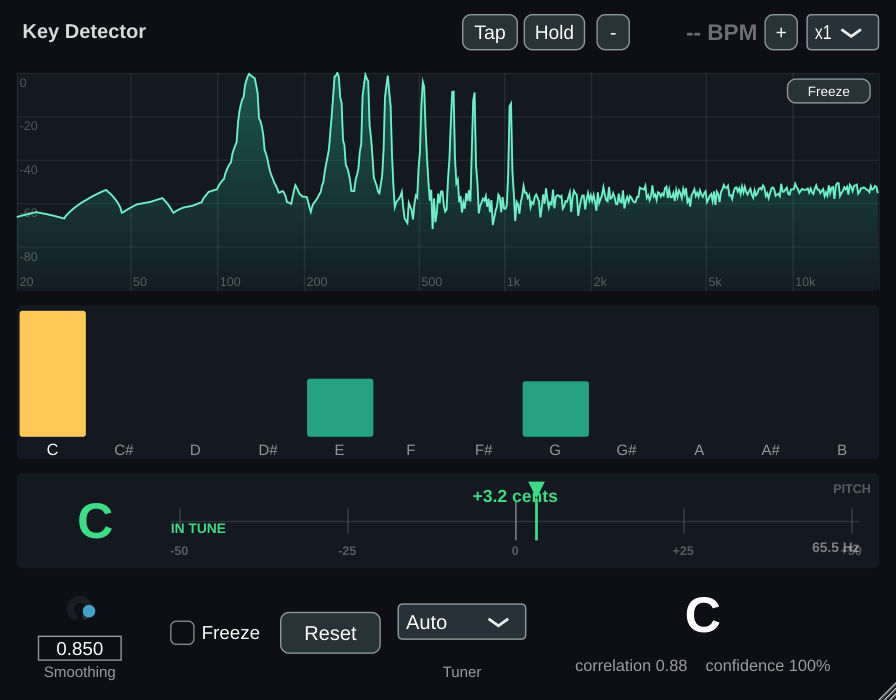
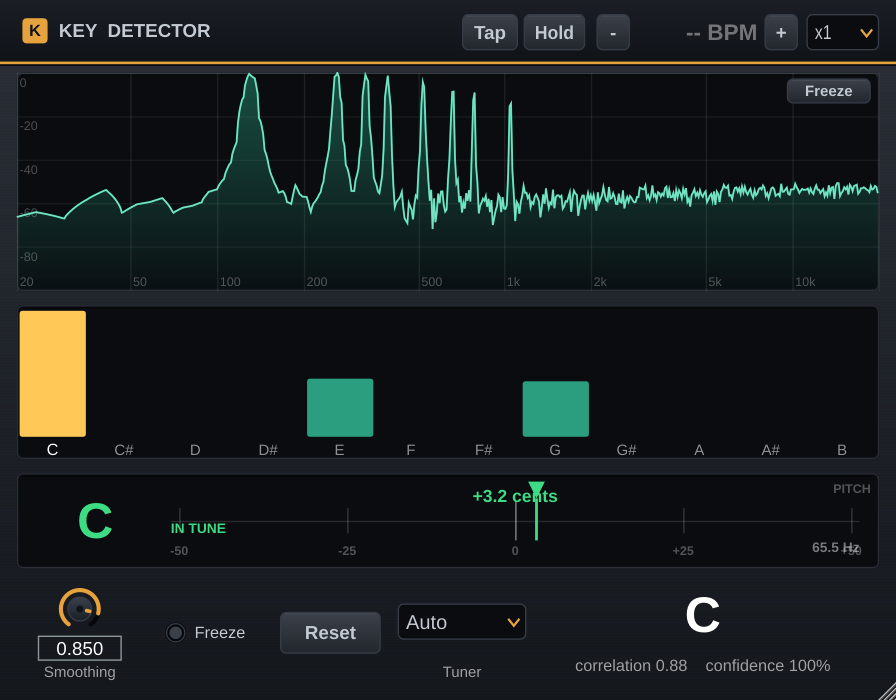
gui: dark 'mixing console' theme
- ConsoleLookAndFeel: console-style rotary knobs (amber arc + pointer), beveled
  buttons, LED toggle, dark combo boxes, shared charcoal/amber/green palette.
- Editor: brushed-metal background gradient, title bar with logo + wordmark and an
  amber accent divider; applies the LookAndFeel (scaled with the resizable UI).
- Meters (spectrum/chroma/tuner) now draw as recessed 'screen' panels with bevels;
  green meter trace/bars, amber accents.

diff --git a/Source/ConsoleLookAndFeel.h b/Source/ConsoleLookAndFeel.h
@@ -1,0 +1,159 @@
+#pragma once
+
+#include <juce_gui_basics/juce_gui_basics.h>
+
+//==============================================================================
+// Shared dark "mixing console" palette.
+namespace console
+{
+    constexpr juce::uint32 bgTop     = 0xff2b3038; // panel gradient (top)
+    constexpr juce::uint32 bgBottomC = 0xff14171c; // panel gradient (bottom)
+    constexpr juce::uint32 barTop    = 0xff1b1f25; // title bar
+    constexpr juce::uint32 barBottom = 0xff101318;
+    constexpr juce::uint32 panel     = 0xff1b1f26; // section panel
+    constexpr juce::uint32 screen    = 0xff0a0c10; // recessed display background
+    constexpr juce::uint32 edge      = 0xff363c46; // borders / bevel highlight
+    constexpr juce::uint32 shadow    = 0xff05070a;
+    constexpr juce::uint32 button     = 0xff2a3038;
+    constexpr juce::uint32 knobTop    = 0xff3a414b;
+    constexpr juce::uint32 knobBottom = 0xff1b1f26;
+    constexpr juce::uint32 text       = 0xffc4cad2;
+    constexpr juce::uint32 textDim    = 0xff727b86;
+    constexpr juce::uint32 accent     = 0xffe6a23c; // amber controls
+    constexpr juce::uint32 meter      = 0xff35d0a5; // green meter/trace
+}
+
+//==============================================================================
+class ConsoleLookAndFeel : public juce::LookAndFeel_V4
+{
+public:
+    ConsoleLookAndFeel()
+    {
+        setColour (juce::ResizableWindow::backgroundColourId, juce::Colour (console::bgBottomC));
+        setColour (juce::Label::textColourId,                 juce::Colour (console::text));
+        setColour (juce::Slider::textBoxTextColourId,         juce::Colour (console::text));
+        setColour (juce::Slider::textBoxOutlineColourId,      juce::Colours::transparentBlack);
+        setColour (juce::Slider::textBoxBackgroundColourId,   juce::Colour (console::screen));
+        setColour (juce::ComboBox::textColourId,              juce::Colour (console::text));
+        setColour (juce::ComboBox::backgroundColourId,        juce::Colour (console::screen));
+        setColour (juce::ComboBox::outlineColourId,           juce::Colour (console::edge));
+        setColour (juce::ComboBox::arrowColourId,             juce::Colour (console::accent));
+        setColour (juce::TextButton::textColourOnId,          juce::Colours::black);
+        setColour (juce::TextButton::textColourOffId,         juce::Colour (console::text));
+        setColour (juce::PopupMenu::backgroundColourId,       juce::Colour (console::panel));
+        setColour (juce::PopupMenu::textColourId,             juce::Colour (console::text));
+        setColour (juce::PopupMenu::highlightedBackgroundColourId, juce::Colour (console::accent).withAlpha (0.35f));
+        setColour (juce::PopupMenu::highlightedTextColourId,  juce::Colours::white);
+    }
+
+    //==============================================================================
+    void drawRotarySlider (juce::Graphics& g, int x, int y, int width, int height,
+                           float pos, float startAngle, float endAngle, juce::Slider&) override
+    {
+        auto bounds = juce::Rectangle<int> (x, y, width, height).toFloat().reduced (3.0f);
+        const float radius = juce::jmin (bounds.getWidth(), bounds.getHeight()) / 2.0f;
+        const auto  centre = bounds.getCentre();
+        const float angle  = startAngle + pos * (endAngle - startAngle);
+        const float trackW = 3.0f;
+        const float arcR   = radius - trackW * 0.5f - 1.0f;
+
+        juce::Path track;
+        track.addCentredArc (centre.x, centre.y, arcR, arcR, 0.0f, startAngle, endAngle, true);
+        g.setColour (juce::Colour (console::shadow));
+        g.strokePath (track, juce::PathStrokeType (trackW, juce::PathStrokeType::curved, juce::PathStrokeType::rounded));
+
+        juce::Path val;
+        val.addCentredArc (centre.x, centre.y, arcR, arcR, 0.0f, startAngle, angle, true);
+        g.setColour (juce::Colour (console::accent));
+        g.strokePath (val, juce::PathStrokeType (trackW, juce::PathStrokeType::curved, juce::PathStrokeType::rounded));
+
+        const float kr = arcR - trackW - 2.0f;
+        g.setGradientFill (juce::ColourGradient (juce::Colour (console::knobTop),    centre.x, centre.y - kr,
+                                                 juce::Colour (console::knobBottom), centre.x, centre.y + kr, false));
+        g.fillEllipse (centre.x - kr, centre.y - kr, kr * 2.0f, kr * 2.0f);
+        g.setColour (juce::Colour (console::edge));
+        g.drawEllipse (centre.x - kr, centre.y - kr, kr * 2.0f, kr * 2.0f, 1.0f);
+
+        juce::Path pointer;
+        const float pw = 2.6f;
+        pointer.addRoundedRectangle (-pw * 0.5f, -kr, pw, kr * 0.55f, 1.0f);
+        pointer.applyTransform (juce::AffineTransform::rotation (angle).translated (centre.x, centre.y));
+        g.setColour (juce::Colour (console::accent));
+        g.fillPath (pointer);
+
+        g.setColour (juce::Colour (0xff10131a));
+        g.fillEllipse (centre.x - 2.5f, centre.y - 2.5f, 5.0f, 5.0f);
+    }
+
+    //==============================================================================
+    void drawButtonBackground (juce::Graphics& g, juce::Button& b, const juce::Colour&,
+                               bool over, bool down) override
+    {
+        auto r = b.getLocalBounds().toFloat().reduced (0.5f);
+        const bool on = b.getToggleState();
+        juce::Colour base = on ? juce::Colour (console::accent) : juce::Colour (console::button);
+        juce::Colour top = base.brighter (down ? 0.0f : (over ? 0.18f : 0.10f));
+        juce::Colour bot = base.darker (down ? 0.05f : 0.22f);
+
+        g.setGradientFill (juce::ColourGradient (top, 0, r.getY(), bot, 0, r.getBottom(), false));
+        g.fillRoundedRectangle (r, 4.0f);
+
+        g.setColour (juce::Colours::white.withAlpha (0.06f));
+        g.drawLine (r.getX() + 3.0f, r.getY() + 1.0f, r.getRight() - 3.0f, r.getY() + 1.0f, 1.0f);
+
+        g.setColour (on ? juce::Colour (console::accent).darker (0.5f) : juce::Colour (console::edge));
+        g.drawRoundedRectangle (r, 4.0f, 1.0f);
+    }
+
+    juce::Font getTextButtonFont (juce::TextButton&, int h) override
+    {
+        return juce::Font (juce::FontOptions ((float) juce::jmin (15, h - 6), juce::Font::bold));
+    }
+
+    //==============================================================================
+    void drawToggleButton (juce::Graphics& g, juce::ToggleButton& b, bool, bool) override
+    {
+        auto bounds = b.getLocalBounds();
+        const float d = 13.0f;
+        auto led = juce::Rectangle<float> (bounds.getX() + 1.0f, bounds.getCentreY() - d * 0.5f, d, d);
+        const bool on = b.getToggleState();
+
+        if (on)
+        {
+            g.setColour (juce::Colour (console::accent).withAlpha (0.30f));
+            g.fillEllipse (led.expanded (3.0f));
+        }
+        g.setColour (juce::Colour (console::shadow));
+        g.fillEllipse (led.expanded (1.0f));
+        g.setColour (on ? juce::Colour (console::accent) : juce::Colour (0xff3a4048));
+        g.fillEllipse (led.reduced (2.0f));
+        g.setColour (juce::Colour (console::edge));
+        g.drawEllipse (led, 1.0f);
+
+        g.setColour (juce::Colour (console::text));
+        g.setFont (juce::Font (juce::FontOptions (13.0f)));
+        g.drawText (b.getButtonText(), bounds.getX() + (int) d + 8, bounds.getY(),
+                    bounds.getWidth() - (int) d - 8, bounds.getHeight(),
+                    juce::Justification::centredLeft, false);
+    }
+
+    //==============================================================================
+    void drawComboBox (juce::Graphics& g, int width, int height, bool,
+                       int, int, int, int, juce::ComboBox&) override
+    {
+        auto r = juce::Rectangle<int> (0, 0, width, height).toFloat().reduced (0.5f);
+        g.setColour (juce::Colour (console::screen));
+        g.fillRoundedRectangle (r, 4.0f);
+        g.setColour (juce::Colour (console::edge));
+        g.drawRoundedRectangle (r, 4.0f, 1.0f);
+
+        auto arrow = juce::Rectangle<float> ((float) width - 16.0f, 0.0f, 14.0f, (float) height);
+        const auto c = arrow.getCentre();
+        juce::Path p;
+        p.startNewSubPath (c.x - 4.0f, c.y - 2.0f);
+        p.lineTo (c.x, c.y + 3.0f);
+        p.lineTo (c.x + 4.0f, c.y - 2.0f);
+        g.setColour (juce::Colour (console::accent));
+        g.strokePath (p, juce::PathStrokeType (1.6f));
+    }
+};

diff --git a/Source/SpectrumAnalyzer.cpp b/Source/SpectrumAnalyzer.cpp
@@ -1,7 +1,24 @@
 #include "SpectrumAnalyzer.h"
 #include "PitchDetector.h"
+#include "ConsoleLookAndFeel.h"
 
 #include <cmath>
+
+namespace
+{
+    // A recessed "screen" panel (dark inset with a bevel) used behind each meter.
+    void drawScreen (juce::Graphics& g, juce::Rectangle<float> b)
+    {
+        g.setColour (juce::Colour (console::screen));
+        g.fillRoundedRectangle (b, 4.0f);
+        g.setColour (juce::Colours::black.withAlpha (0.40f)); // inner top shadow
+        g.drawLine (b.getX() + 3.0f, b.getY() + 1.5f, b.getRight() - 3.0f, b.getY() + 1.5f, 1.5f);
+        g.setColour (juce::Colours::white.withAlpha (0.04f)); // bottom bevel highlight
+        g.drawLine (b.getX() + 3.0f, b.getBottom() - 1.0f, b.getRight() - 3.0f, b.getBottom() - 1.0f, 1.0f);
+        g.setColour (juce::Colour (console::edge).withAlpha (0.7f));
+        g.drawRoundedRectangle (b.reduced (0.5f), 4.0f, 1.0f);
+    }
+}
 
 //==============================================================================
 void SpectrumDisplay::setSpectrum (const std::vector<float>& magnitudes, double newSampleRate)
@@ -112,8 +129,7 @@ void SpectrumDisplay::paint (juce::Graphics& g)
     const float w = bounds.getWidth();
     const float h = bounds.getHeight();
 
-    g.setColour (juce::Colour (0xff141821));
-    g.fillRoundedRectangle (bounds, 4.0f);
+    drawScreen (g, bounds);
 
     // ---- dB grid (horizontal) ---------------------------------------------------
     g.setFont (10.0f);
@@ -159,11 +175,11 @@ void SpectrumDisplay::paint (juce::Graphics& g)
     filled.lineTo (0.0f, h);
     filled.closeSubPath();
 
-    g.setGradientFill (juce::ColourGradient (juce::Colour (0xff2bd1a4).withAlpha (0.35f), 0, 0,
-                                             juce::Colour (0xff2bd1a4).withAlpha (0.02f), 0, h, false));
+    g.setGradientFill (juce::ColourGradient (juce::Colour (console::meter).withAlpha (0.35f), 0, 0,
+                                             juce::Colour (console::meter).withAlpha (0.02f), 0, h, false));
     g.fillPath (filled);
 
-    g.setColour (juce::Colour (0xff36e0b0));
+    g.setColour (juce::Colour (console::meter));
     g.strokePath (path, juce::PathStrokeType (1.4f));
 
     // ---- peak-hold trace --------------------------------------------------------
@@ -265,7 +281,7 @@ void SpectrumDisplay::paintHoverReadout (juce::Graphics& g)
 
     g.setColour (juce::Colour (0xff0d0f14).withAlpha (0.92f));
     g.fillRoundedRectangle ((float) lx, (float) ly, (float) tw, (float) th, 4.0f);
-    g.setColour (juce::Colour (0xff2bd1a4).withAlpha (0.6f));
+    g.setColour (juce::Colour (console::meter).withAlpha (0.6f));
     g.drawRoundedRectangle ((float) lx, (float) ly, (float) tw, (float) th, 4.0f, 1.0f);
     g.setColour (juce::Colours::white);
     g.drawText (txt, lx + 7, ly, tw - 12, th, juce::Justification::centredLeft, false);
@@ -279,8 +295,7 @@ void ChromaDisplay::paint (juce::Graphics& g)
 
     auto bounds = getLocalBounds().toFloat();
 
-    g.setColour (juce::Colour (0xff141821));
-    g.fillRoundedRectangle (bounds, 4.0f);
+    drawScreen (g, bounds);
 
     const float labelH = 16.0f;
     const float w      = bounds.getWidth();
@@ -302,7 +317,7 @@ void ChromaDisplay::paint (juce::Graphics& g)
         const bool isTonic = (i == tonicPc);
         g.setColour (isTonic ? (isMinor ? juce::Colour (0xff6ea8ff)
                                         : juce::Colour (0xffffc857))
-                             : juce::Colour (0xff2bd1a4).withAlpha (0.75f));
+                             : juce::Colour (console::meter).withAlpha (0.75f));
         g.fillRoundedRectangle (bar, 2.0f);
 
         g.setColour (isTonic ? juce::Colours::white : juce::Colours::white.withAlpha (0.55f));
@@ -317,8 +332,7 @@ void TunerDisplay::paint (juce::Graphics& g)
 {
     auto bounds = getLocalBounds().toFloat();
 
-    g.setColour (juce::Colour (0xff141821));
-    g.fillRoundedRectangle (bounds, 4.0f);
+    drawScreen (g, bounds);
 
     auto area = bounds.reduced (8.0f);
 

diff --git a/Source/PluginEditor.cpp b/Source/PluginEditor.cpp
@@ -4,16 +4,42 @@
 KeyDetectorAudioProcessorEditor::KeyDetectorAudioProcessorEditor (KeyDetectorAudioProcessor& p)
     : AudioProcessorEditor (&p), processorRef (p)
 {
+    setLookAndFeel (&consoleLnf);
+
     // Everything lives inside `content`, which is laid out at the fixed design size
     // and scaled to fill the (resizable) editor.
     addAndMakeVisible (content);
     content.onPaint = [] (juce::Graphics& g)
     {
-        g.fillAll (juce::Colour (0xff0d0f14));
+        const int W = designWidth, H = designHeight;
 
-        g.setColour (juce::Colours::white.withAlpha (0.85f));
-        g.setFont (juce::Font (juce::FontOptions (16.0f, juce::Font::bold)));
-        g.drawText ("Key Detector", 16, 10, 300, 24, juce::Justification::left, false);
+        // Brushed-metal panel gradient.
+        g.setGradientFill (juce::ColourGradient (juce::Colour (console::bgTop), 0.0f, 0.0f,
+                                                 juce::Colour (console::bgBottomC), 0.0f, (float) H, false));
+        g.fillRect (0, 0, W, H);
+        g.setColour (juce::Colours::white.withAlpha (0.012f));
+        for (int y = 48; y < H; y += 2)
+            g.drawHorizontalLine (y, 0.0f, (float) W);
+
+        // Title bar.
+        g.setGradientFill (juce::ColourGradient (juce::Colour (console::barTop), 0.0f, 0.0f,
+                                                 juce::Colour (console::barBottom), 0.0f, 44.0f, false));
+        g.fillRect (0, 0, W, 44);
+        g.setColour (juce::Colour (console::accent));
+        g.fillRect (0, 44, W, 2);
+        g.setColour (juce::Colour (console::shadow));
+        g.fillRect (0, 46, W, 1);
+
+        // Logo mark + wordmark.
+        g.setColour (juce::Colour (console::accent));
+        g.fillRoundedRectangle (16.0f, 13.0f, 18.0f, 18.0f, 3.0f);
+        g.setColour (juce::Colour (0xff101318));
+        g.setFont (juce::Font (juce::FontOptions (13.0f, juce::Font::bold)));
+        g.drawText ("K", 16, 13, 18, 18, juce::Justification::centred, false);
+
+        g.setColour (juce::Colour (console::text));
+        g.setFont (juce::Font (juce::FontOptions (15.0f, juce::Font::bold)));
+        g.drawText ("KEY  DETECTOR", 42, 13, 260, 18, juce::Justification::centredLeft, false);
     };
 
     content.addAndMakeVisible (spectrum);
@@ -162,12 +188,13 @@ KeyDetectorAudioProcessorEditor::KeyDetectorAudioProcessorEditor (KeyDetectorAud
 KeyDetectorAudioProcessorEditor::~KeyDetectorAudioProcessorEditor()
 {
     stopTimer();
+    setLookAndFeel (nullptr);
 }
 
 //==============================================================================
 void KeyDetectorAudioProcessorEditor::paint (juce::Graphics& g)
 {
-    g.fillAll (juce::Colour (0xff0d0f14)); // behind the scaled content
+    g.fillAll (juce::Colour (console::bgBottomC)); // behind the scaled content
 }
 
 void KeyDetectorAudioProcessorEditor::resized()

diff --git a/Source/PluginEditor.h b/Source/PluginEditor.h
@@ -4,6 +4,7 @@
 
 #include "PluginProcessor.h"
 #include "SpectrumAnalyzer.h"
+#include "ConsoleLookAndFeel.h"
 
 //==============================================================================
 /** GUI: a spectrum analyser, a chroma bar display, the detected key, plus the
@@ -38,6 +39,7 @@ private:
     };
 
     KeyDetectorAudioProcessor& processorRef;
+    ConsoleLookAndFeel consoleLnf;   // declared early so it outlives the widgets
     Content content;
 
     SpectrumDisplay spectrum;

diff --git a/README.md b/README.md
@@ -51,7 +51,8 @@ KeyDetector/
 │   ├── TempoEstimator.h/.cpp     # audio BPM estimation (onset + autocorrelation)
 │   ├── PluginProcessor.h/.cpp    # audio thread: FIFO → FFT → chroma → publish
 │   ├── PluginEditor.h/.cpp       # GUI + 30 Hz timer polling the processor
-│   └── SpectrumAnalyzer.h/.cpp   # spectrum + chroma + tuner display components
+│   ├── SpectrumAnalyzer.h/.cpp   # spectrum + chroma + tuner display components
+│   └── ConsoleLookAndFeel.h      # dark "mixing console" theme (knobs/LEDs/buttons)
 └── tests/
     ├── ChromaKeyDetectorTest.cpp # pure-C++17 sanity tests (ctest)
     ├── PitchDetectorTest.cpp     # YIN accuracy tests (ctest)
